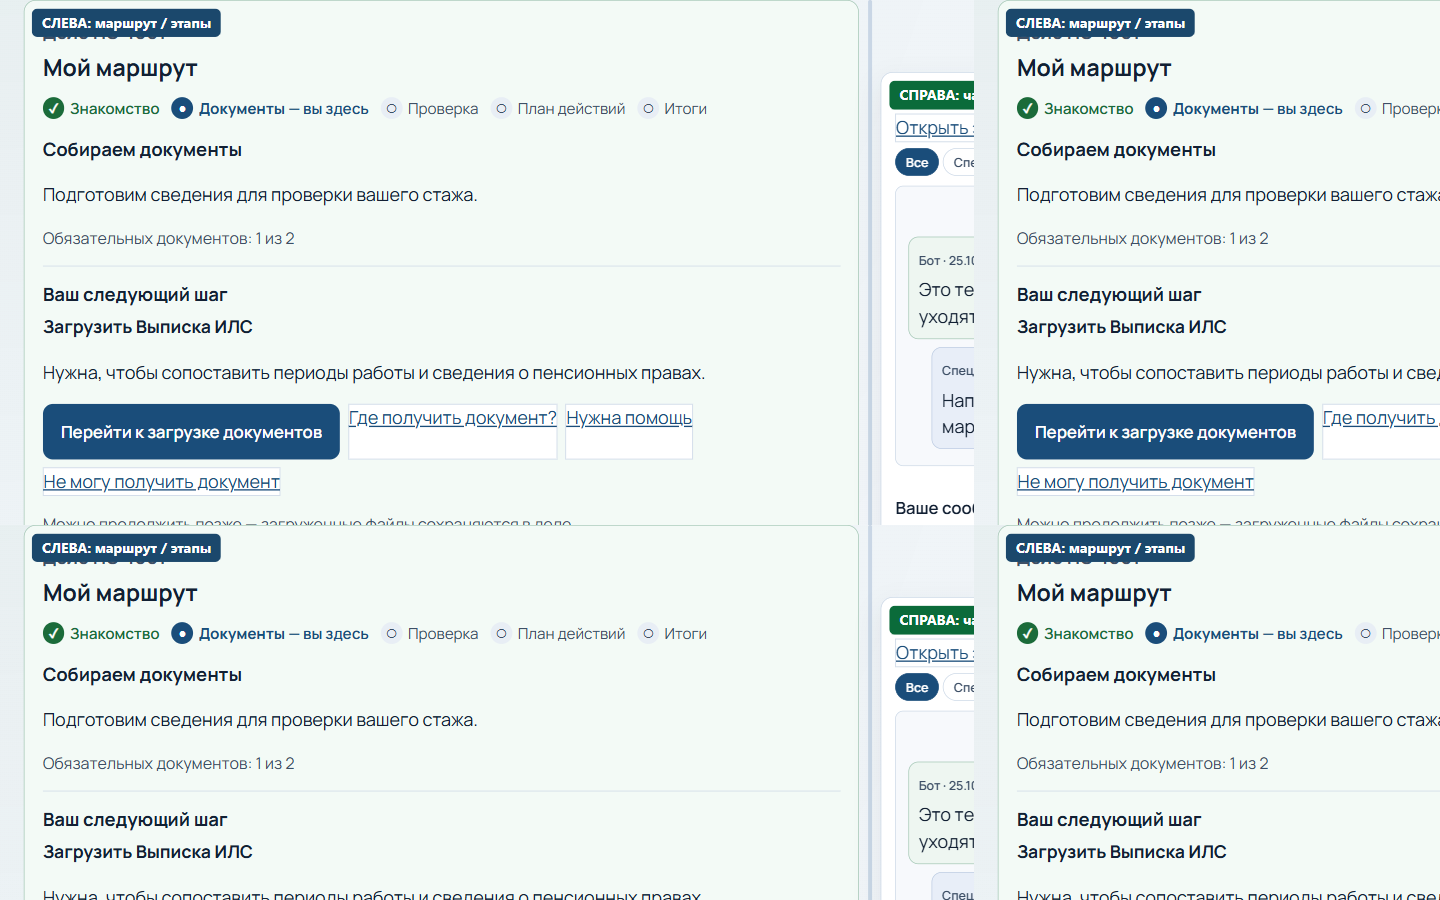
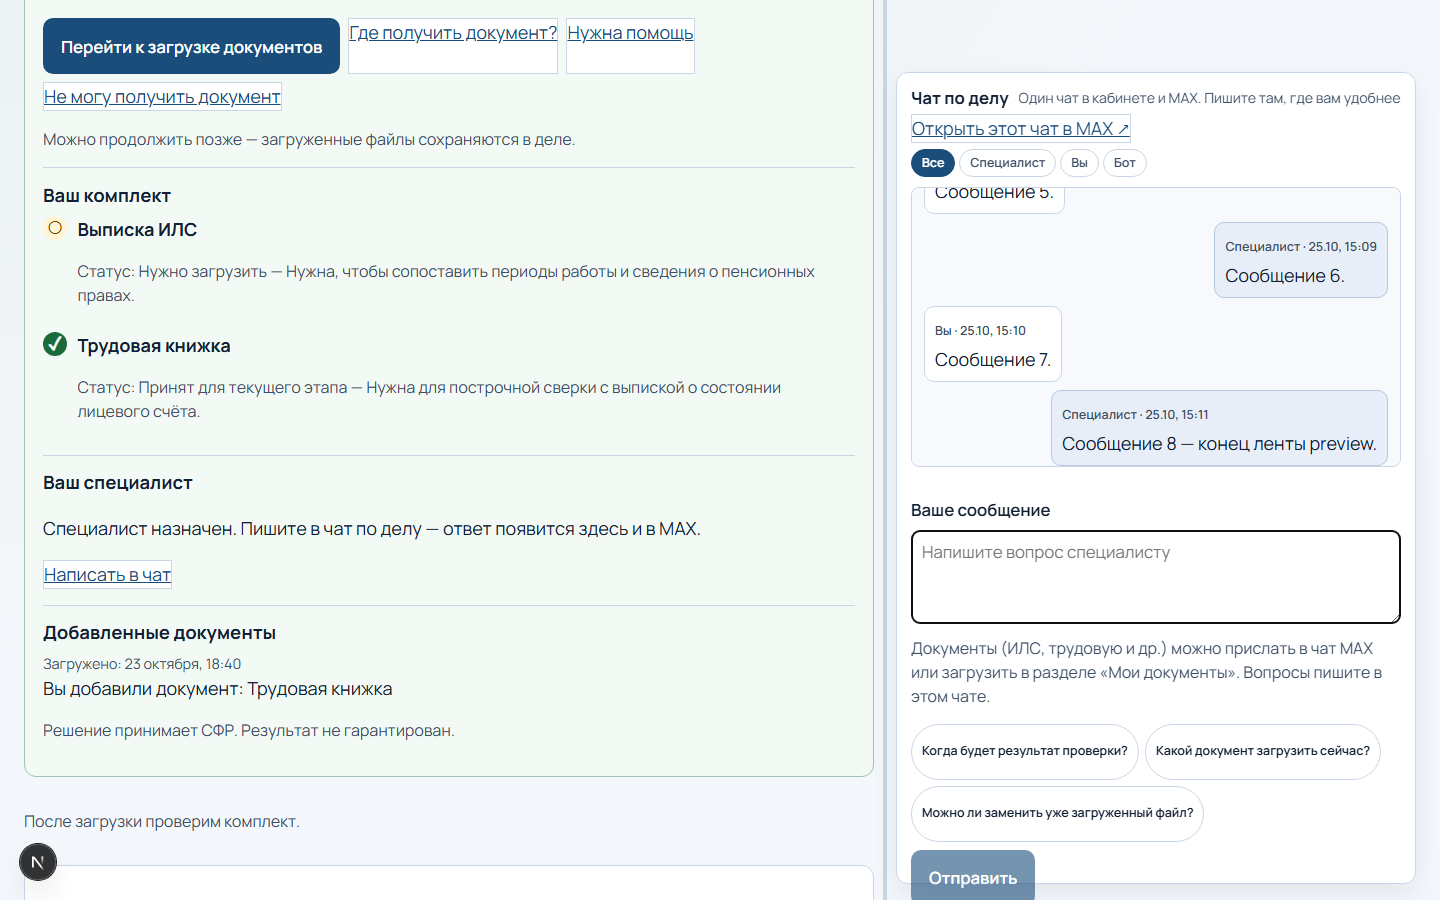
fix(cabinet): eslint preview + Playwright скрины 1440/390
Убран setState в effect (падение lint). Скрины headless: маршрут|чат, mobile + кнопка Чат; help → #case-chat-input.

diff --git a/apps/cabinet/src/app/dev/route-preview/route-preview-client.tsx b/apps/cabinet/src/app/dev/route-preview/route-preview-client.tsx
@@ -340,20 +340,14 @@ export function RoutePreviewClient() {
     [work],
   );
 
+  const resolveLine = `resolve(${scenario}) → ${JSON.stringify(resolved)}`;
+  const displayHandler = lastHandler === "—" ? resolveLine : lastHandler;
+
   function pushLog(line: string) {
     const stamped = `${new Date().toLocaleTimeString("ru-RU")} · ${line}`;
     setLastHandler(line);
     setLog((prev) => [stamped, ...prev].slice(0, 16));
   }
-
-  useEffect(() => {
-    setLastHandler(`resolve(${scenario}) → ${JSON.stringify(resolved)}`);
-    setLog((prev) => {
-      const line = `${new Date().toLocaleTimeString("ru-RU")} · resolve(${scenario}) → ${JSON.stringify(resolved)}`;
-      if (prev[0]?.includes(`resolve(${scenario})`)) return prev;
-      return [line, ...prev].slice(0, 16);
-    });
-  }, [scenario, resolved]);
 
   useEffect(() => {
     const paint = () => {
@@ -468,6 +462,42 @@ export function RoutePreviewClient() {
                 body: "Напишите сюда вопрос — поле ввода справа от маршрута.",
                 created_at: "2026-10-25T10:05:00+00:00",
               },
+              {
+                id: "m3",
+                author_kind: "client",
+                body: "Длинная история для проверки прокрутки внутри панели чата. Сообщение 3.",
+                created_at: "2026-10-25T10:06:00+00:00",
+              },
+              {
+                id: "m4",
+                author_kind: "staff",
+                body: "Сообщение 4 — лента длиннее окна, поле ввода остаётся снизу.",
+                created_at: "2026-10-25T10:07:00+00:00",
+              },
+              {
+                id: "m5",
+                author_kind: "client",
+                body: "Сообщение 5.",
+                created_at: "2026-10-25T10:08:00+00:00",
+              },
+              {
+                id: "m6",
+                author_kind: "staff",
+                body: "Сообщение 6.",
+                created_at: "2026-10-25T10:09:00+00:00",
+              },
+              {
+                id: "m7",
+                author_kind: "client",
+                body: "Сообщение 7.",
+                created_at: "2026-10-25T10:10:00+00:00",
+              },
+              {
+                id: "m8",
+                author_kind: "staff",
+                body: "Сообщение 8 — конец ленты preview.",
+                created_at: "2026-10-25T10:11:00+00:00",
+              },
             ]}
             body={messageBody}
             busy={false}
@@ -481,6 +511,9 @@ export function RoutePreviewClient() {
           />
         }
       />
+      <a className="case-chat-mobile-open" href="#case-chat">
+        Чат
+      </a>
 
       <aside className="panel" style={{ marginTop: "1rem" }} aria-live="polite" id="route-preview-handler-log">
         <h2 style={{ marginTop: 0, fontSize: "1.05rem" }}>Журнал обработчиков</h2>
@@ -488,7 +521,7 @@ export function RoutePreviewClient() {
           Текущий resolve: <code>{JSON.stringify(resolved)}</code>
         </p>
         <p>
-          Последний handler: <strong data-testid="last-handler">{lastHandler}</strong>
+          Последний handler: <strong data-testid="last-handler">{displayHandler}</strong>
         </p>
         <div className="case-route-actions" style={{ marginBottom: "0.75rem" }}>
           <button type="button" onClick={invokeResolvedHandler}>

diff --git a/apps/cabinet/src/components/cabinet-case-layout.tsx b/apps/cabinet/src/components/cabinet-case-layout.tsx
@@ -136,7 +136,6 @@ export function CabinetCaseLayout({
         id={splitterId}
         className="cabinet-case-splitter"
         aria-label="Изменить ширину чата"
-        aria-orientation="vertical"
         title="Тяните, чтобы изменить ширину чата. Двойной щелчок — сброс."
         onPointerDown={onPointerDown}
         onPointerMove={onPointerMove}

diff --git a/docs/history/2026-10-25-client-case-route-slice.md b/docs/history/2026-10-25-client-case-route-slice.md
@@ -68,16 +68,17 @@ npx next dev -p 3011
 | unknown | `unavailable` | skip без документных подсказок |
 | unavailable | `unavailable` | skip |
 
-### Скриншоты приёмки (размер области кабинета, не окна редактора)
+### Скриншоты приёмки (Playwright viewport, не панель редактора)
 
-`docs/history/assets/pr284-route-preview/`
+Съёмка: `npx -p playwright node tools/pr284-capture-route-preview.mjs http://localhost:3011`  
+Меры: `docs/history/assets/pr284-route-preview/acceptance-measure.json`
 
 | Файл | Содержание |
 |---|---|
-| `acceptance-desktop-1440.png` | **1440×900**, badge `layout=side-by-side`, маршрут+чат |
-| `acceptance-mobile-390.png` | **390×844**, badge `layout=stacked` |
-| `desktop-upload-route-chat.png` | Earlier desktop React preview |
-| `phone-upload-stacked.png` | Earlier phone |
+| `acceptance-desktop-1440.png` | **1440×900** Playwright: маршрут слева, чат+composer справа, `sideBySide=true` |
+| `acceptance-mobile-390.png` | **390×844** stacked |
+| `acceptance-mobile-390-chat-focus.png` | После кнопки «Чат» → `#case-chat` |
+| `acceptance-measure.json` | CDP-метрики + `helpFocus=case-chat-input` |
 
 ## Admin-чат: повторы (отдельно)
 
